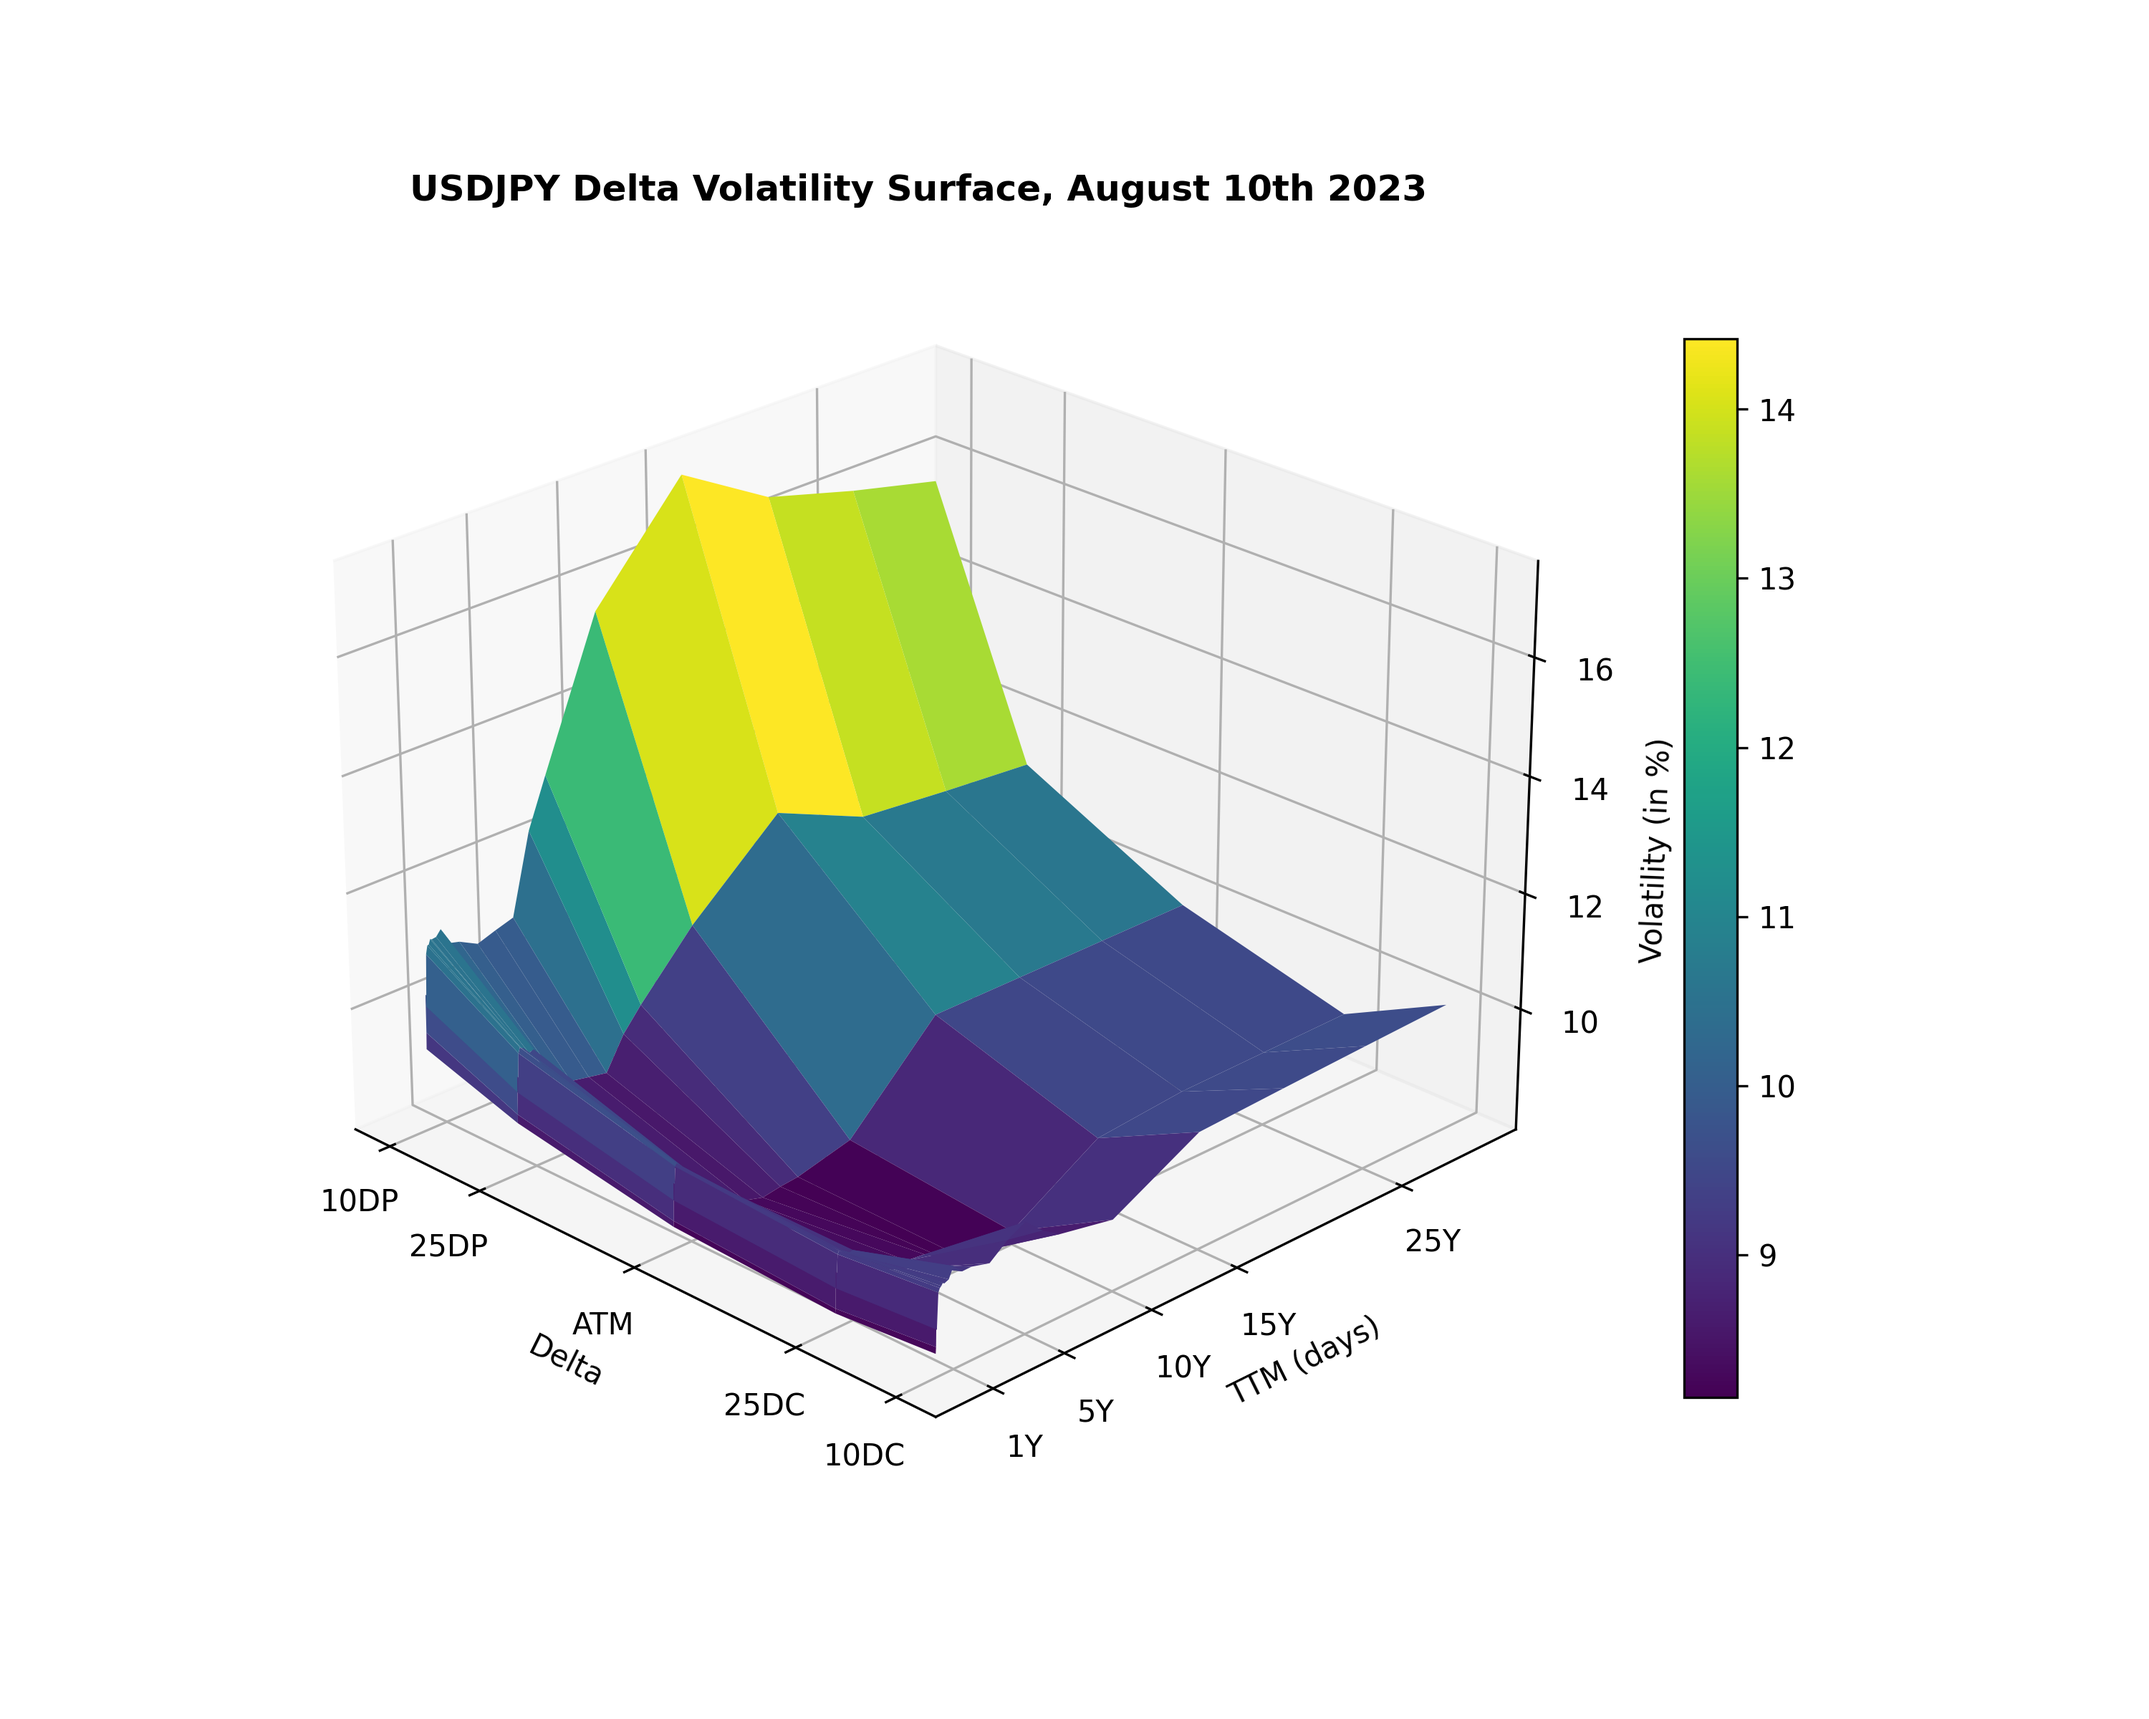
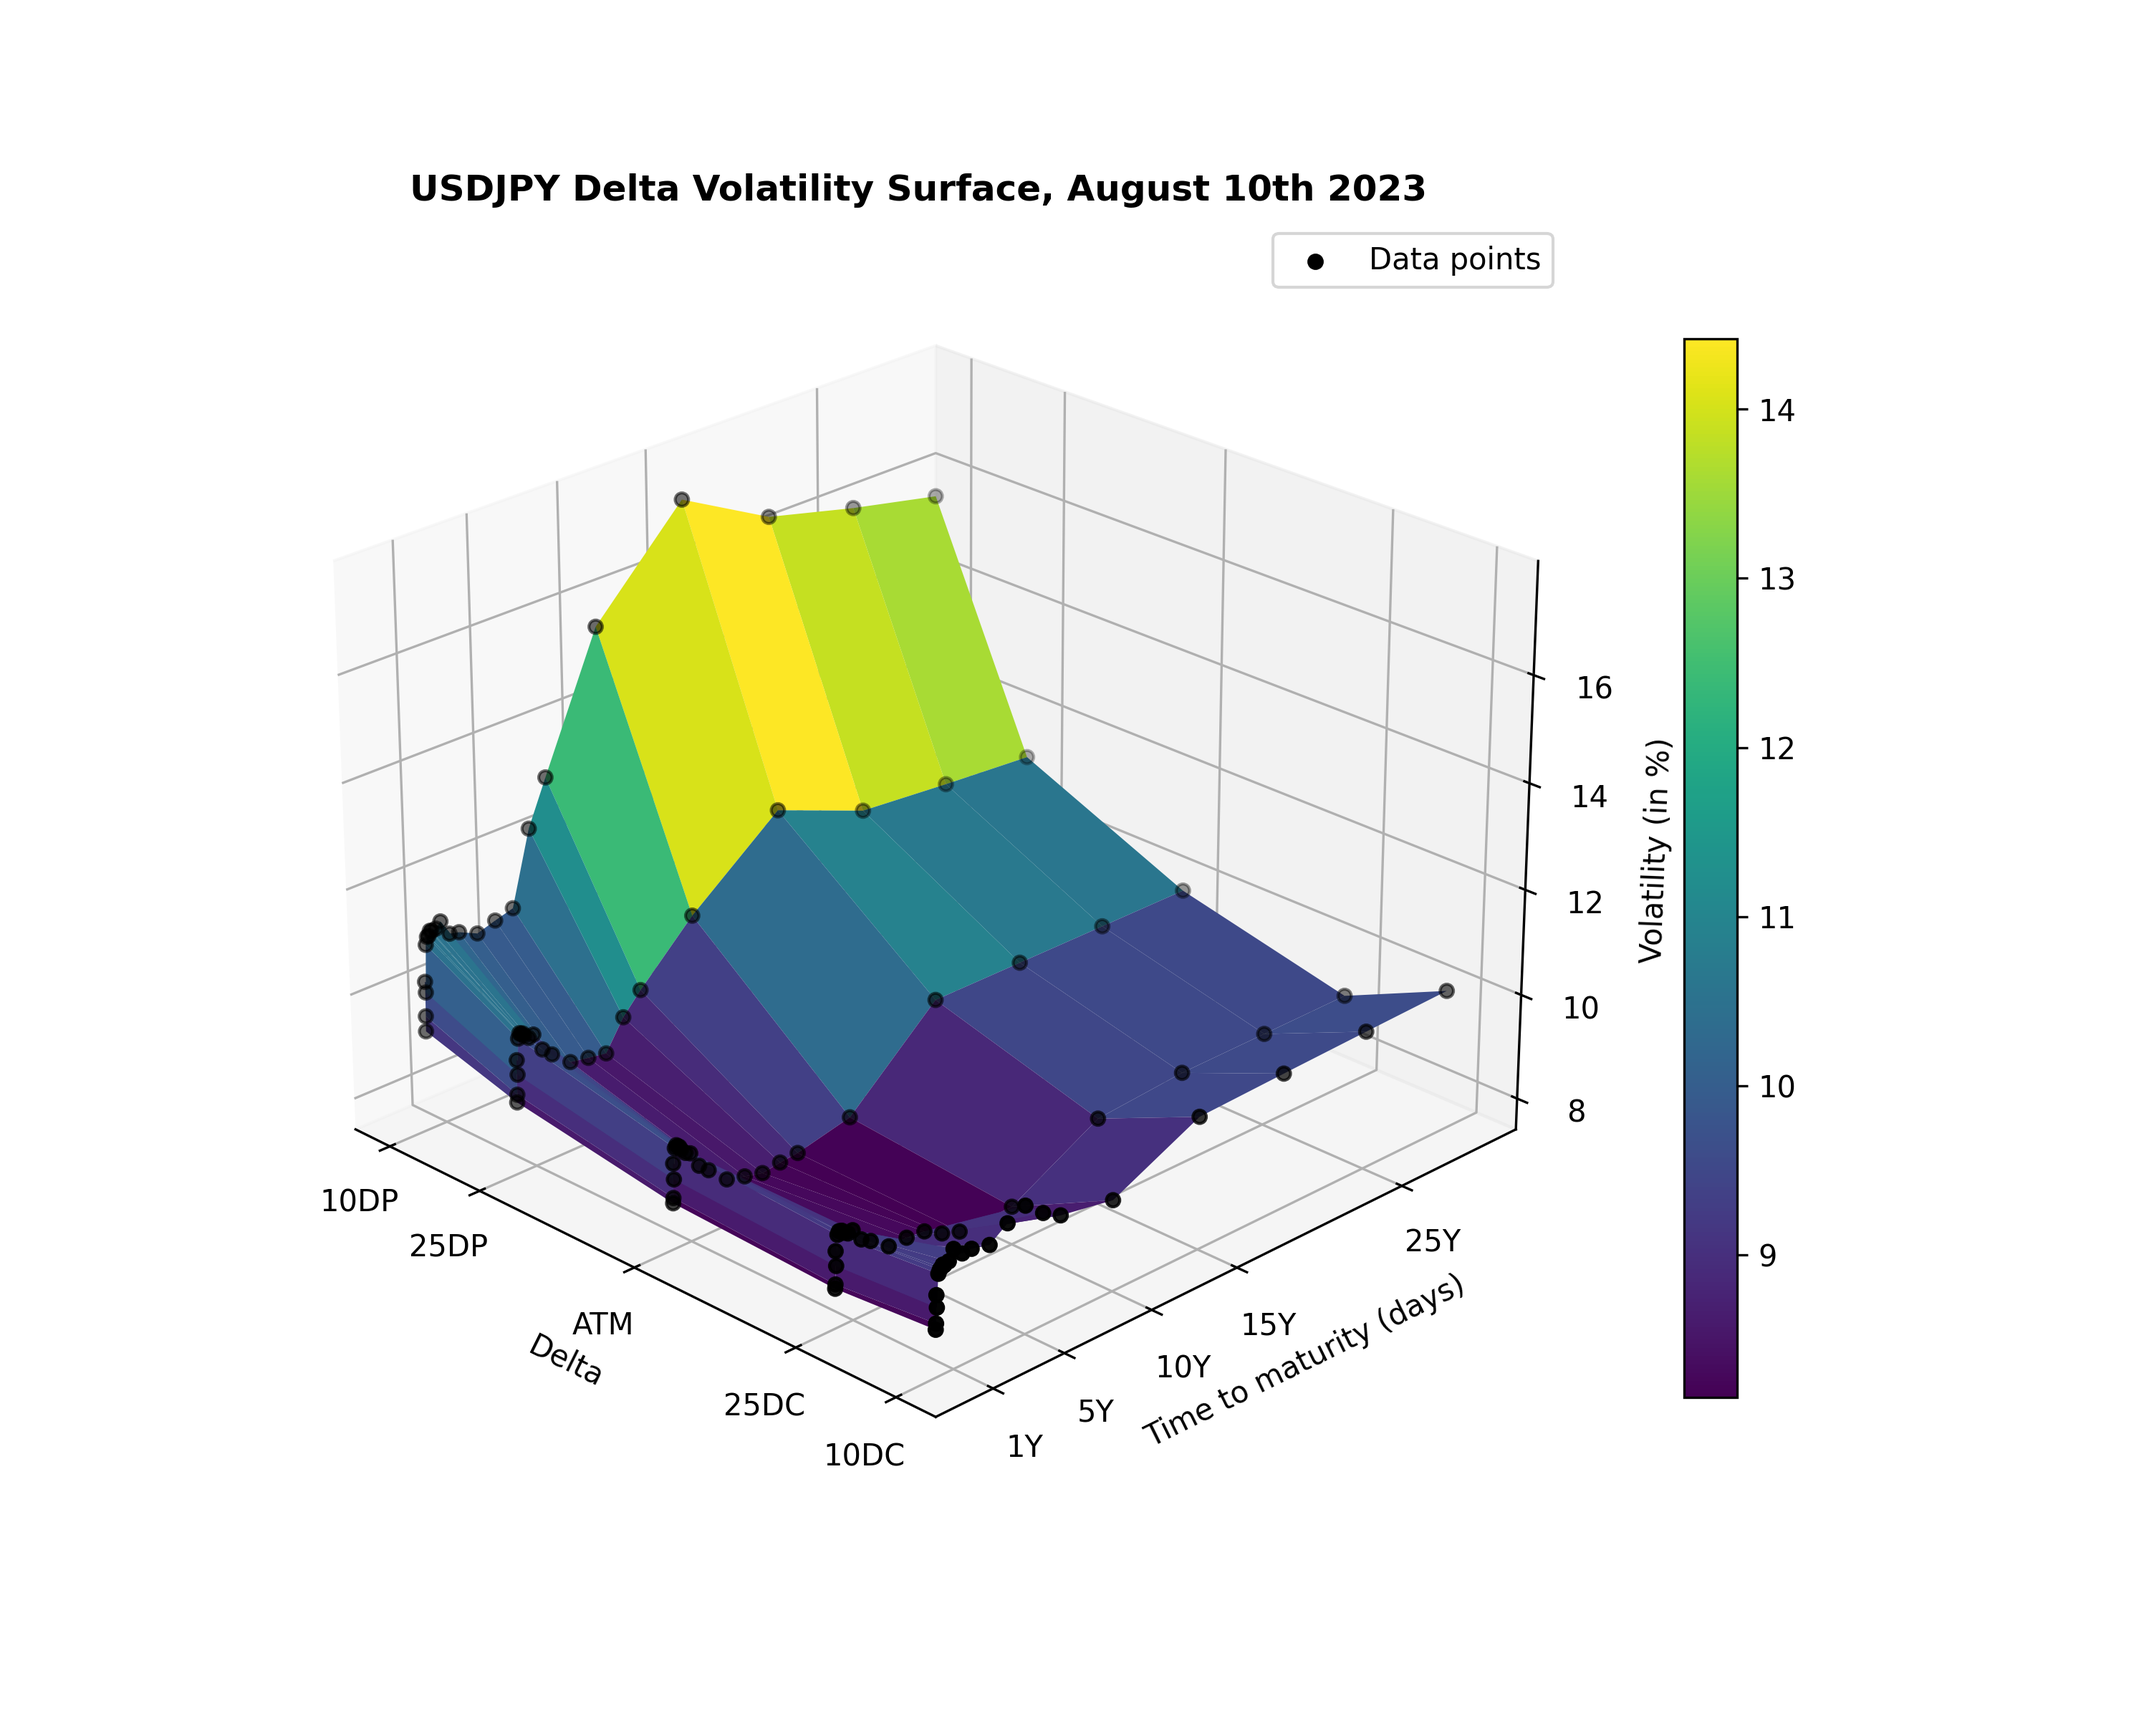
Cleaned

diff --git a/main.py b/main.py
@@ -9,14 +9,6 @@ USD_RATE = 0.053
 JPY_RATE = -0.0009
 TIME = 365
 
-# Mapping variable
-unit_to_days = {
-    "D": 1,
-    "W": 7,
-    "M": 30,  # Approximate days in a month
-    "Y": 365,  # Approximate days in a year
-}
-
 
 def read_excel(file_path='bbg.xlsx'):
     """
@@ -31,6 +23,14 @@ def read_excel(file_path='bbg.xlsx'):
     30Y  11.5 11.5   15.10  14.44  12.48   10950
 
     """
+
+    # Mapping variable
+    unit_to_days = {
+        "D": 1,
+        "W": 7,
+        "M": 30,  # Approximate days in a month
+        "Y": 365,  # Approximate days in a year
+    }
 
     df = pd.read_excel(file_path, header=None, skiprows=3)
     columns_of_interest = [0, 1, 3, 5, 7, 9]
@@ -90,18 +90,19 @@ def plot_delta_vol(df, start=0, stop=30*365, save=False):
     surf = ax.plot_surface(xi, yi, zi, cmap="viridis")
 
     ax.set_xlabel('Delta')
-    ax.set_ylabel('TTM (days)')
+    ax.set_ylabel('Time to maturity (days)')
     ax.set_yticks(y_ticks)
     ax.set_yticklabels(y_legend)
 
     ax.set_zlabel('Volatility (in %)')
     ax.set_xticks(x_axis)
     ax.set_xticklabels(x_legend)
-
+    ax.scatter(xi, yi, zi, marker="o", color="black", label="Data points")
     fig.colorbar(surf, shrink=0.8, pad=0.07)
     plt.title("USDJPY Delta Volatility Surface, August 10th 2023",
               fontweight="bold")
     ax.view_init(elev=25, azim=-45)  # Change these angles as per your need
+    plt.legend()
 
     if save:
         plt.savefig("USDJPY Delta Volatility Surface.png", dpi=300)
@@ -110,5 +111,4 @@ def plot_delta_vol(df, start=0, stop=30*365, save=False):
 
 
 df = read_excel(file_path="bbgnoadj.xlsx")
-print(df)
-plot_delta_vol(df, start=7, save=True)
+plot_delta_vol(df, start=31)
